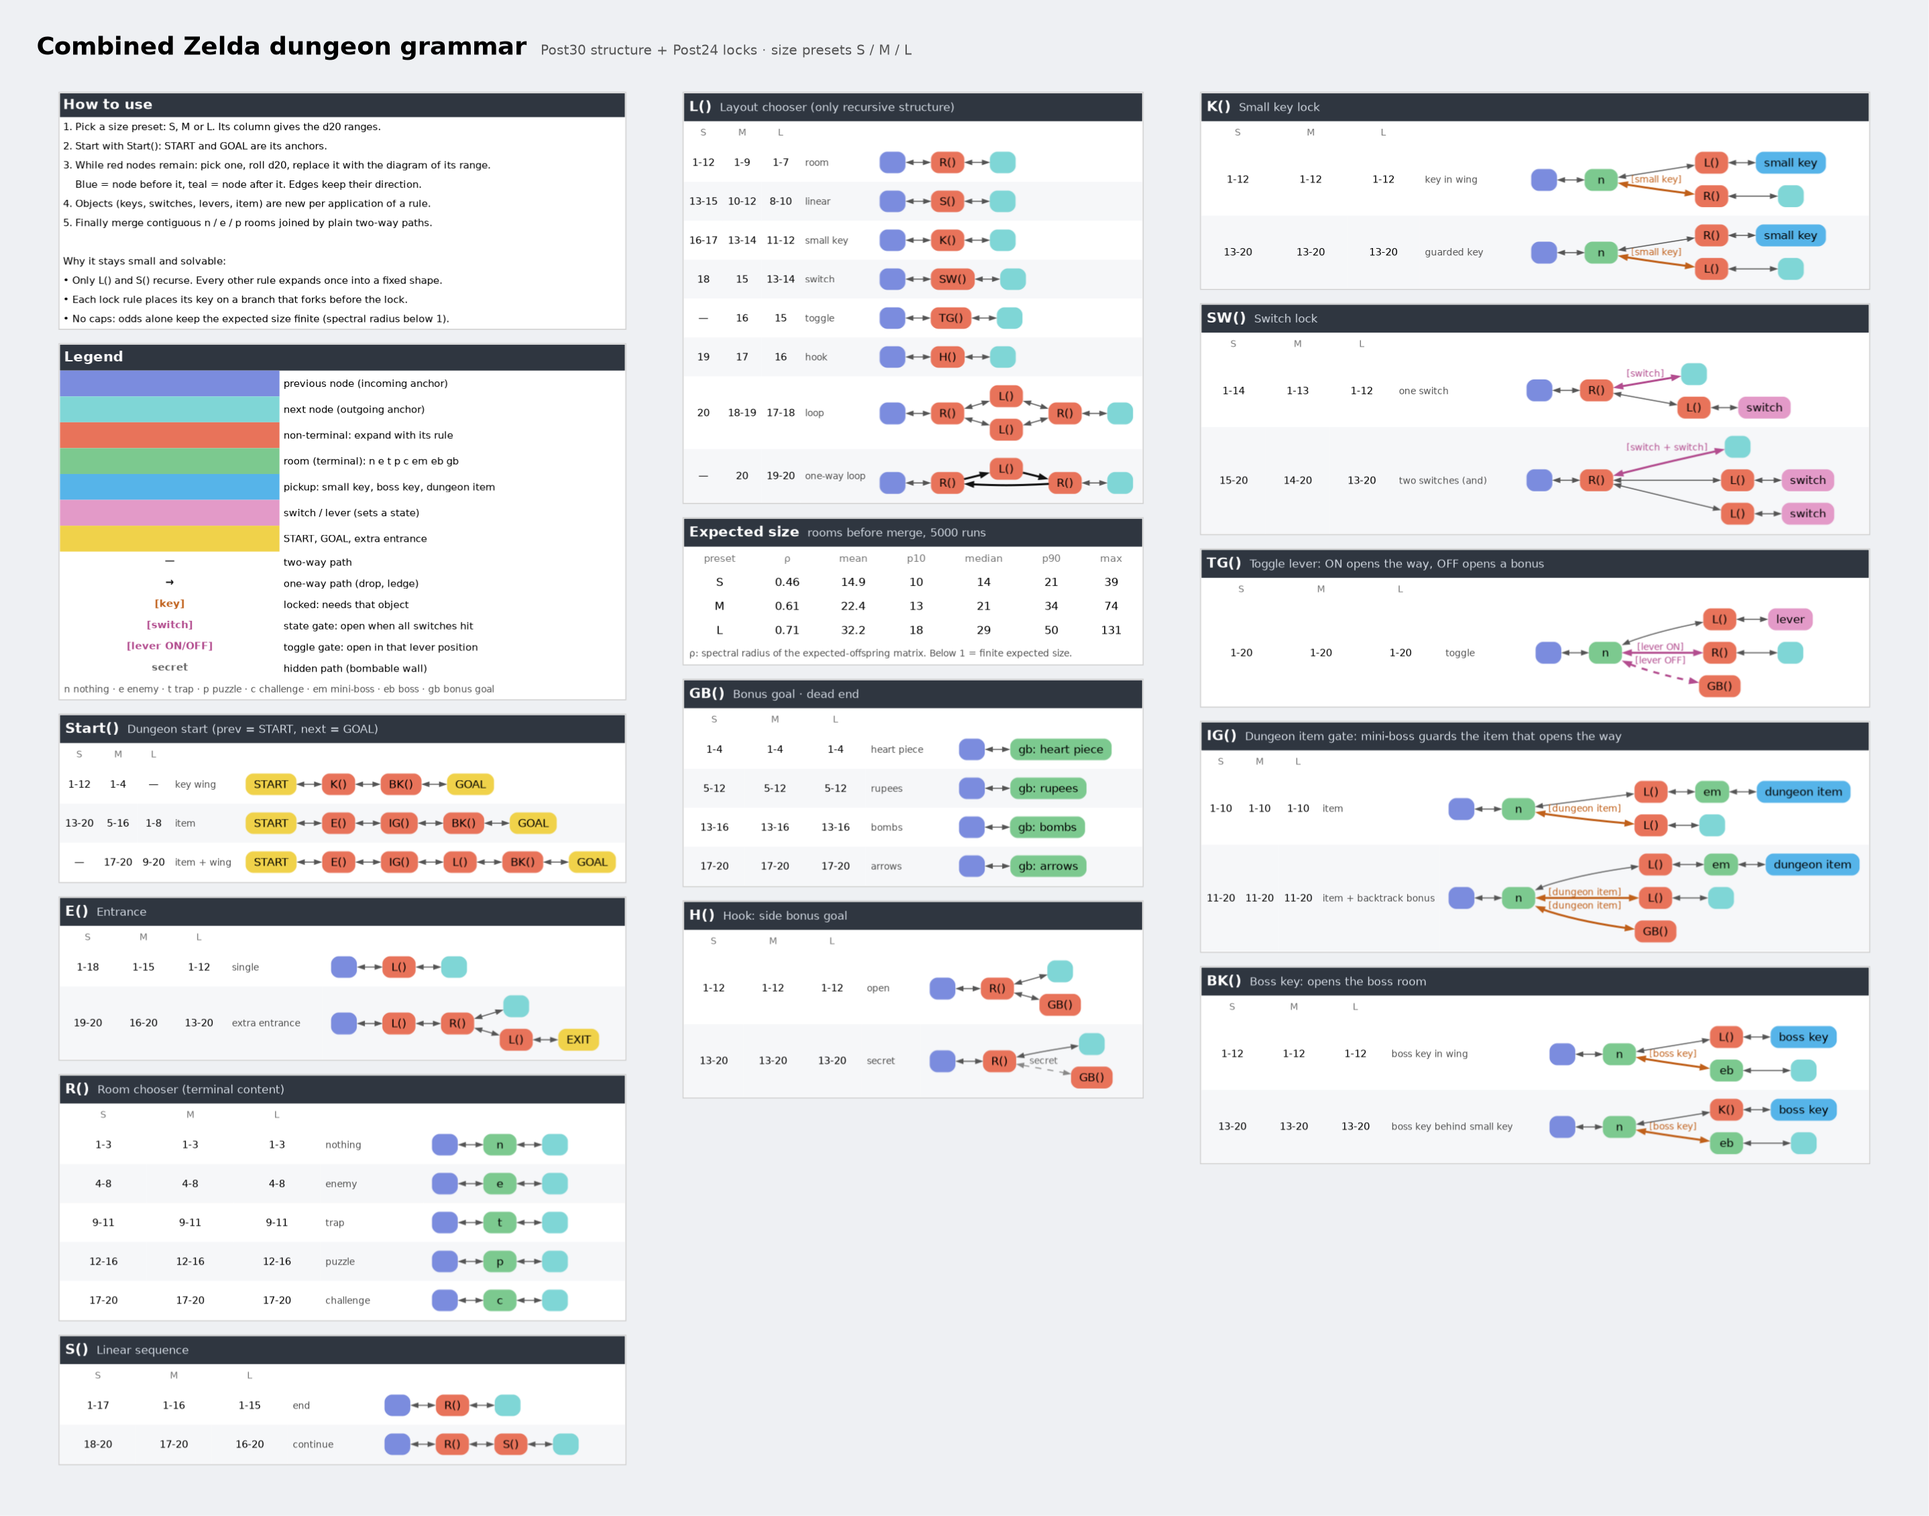
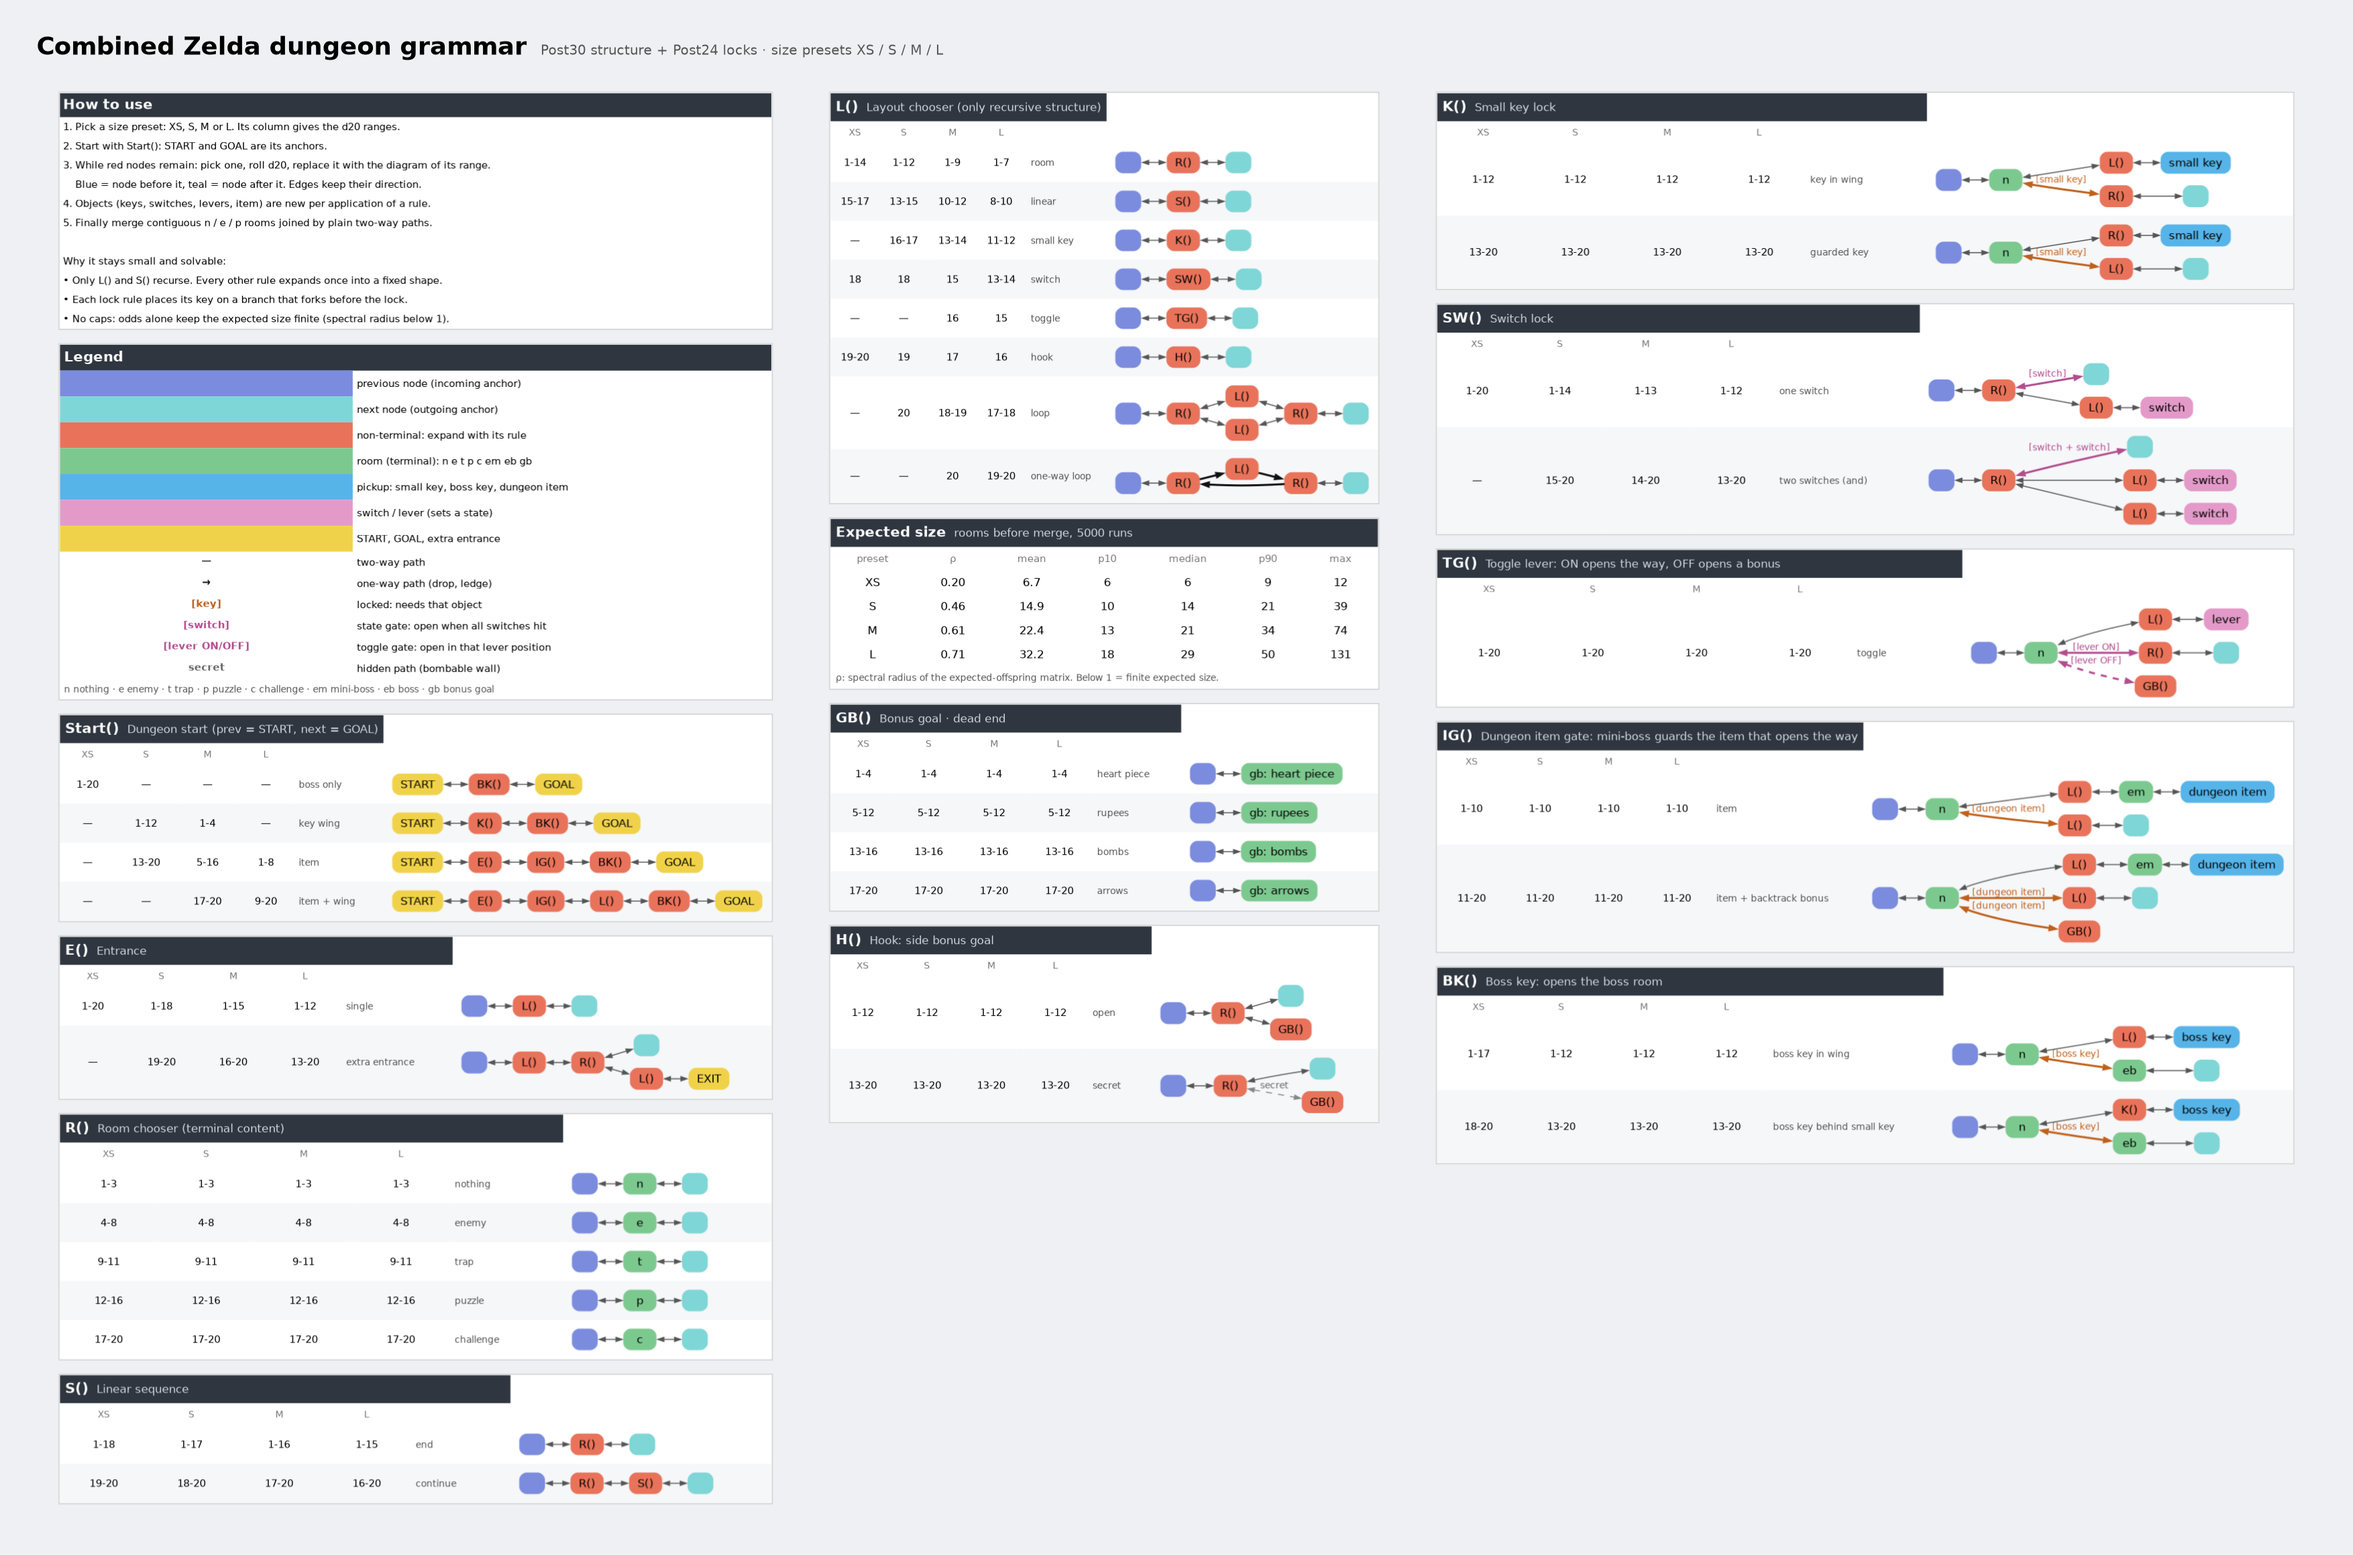
feat(grammar): add XS size preset for 5-6 room dungeons
New Start variant 'boss only' used only by XS, plus XS d20 ranges on every
rule. S, M and L ranges are unchanged, so existing seeds keep their layouts.

Changed region(s): [[0.0, 0.0, 0.9903, 0.9598], [0.1547, 0.805, 0.1857, 0.8359]]

diff --git a/grammar/combined.py b/grammar/combined.py
@@ -10,7 +10,7 @@ Design:
       toggle levers and bonus goals.
     * Only L() and S() are recursive. Every lock rule creates its key on a branch that forks
       before the lock, inside the same rule, so every dungeon is solvable. No caps needed.
-    * Size is controlled by the d20 ranges of each preset (S, M, L). Recursion is
+    * Size is controlled by the d20 ranges of each preset (XS, S, M, L). Recursion is
       subcritical (spectral radius < 1) for every preset.
 
 Data model:
@@ -53,7 +53,7 @@ class Rule(TypedDict):
     variants: list[Variant]
 
 
-PRESETS = ("S", "M", "L")
+PRESETS = ("XS", "S", "M", "L")
 
 # nt: non-terminal (expanded), room: terminal room, item: pickup of an object,
 # switch: switch or lever writing a state, special: start/goal/extra entrance
@@ -80,18 +80,19 @@ FINISH = {"L": "room", "S": "end"}
 
 
 def rng(
+    xs: Span | None = None,
     s: Span | None = None,
     m: Span | None = None,
     l: Span | None = None,  # noqa: E741
 ) -> dict[str, Span]:
     """d20 ranges per preset"""
-    ranges = {"S": s, "M": m, "L": l}
+    ranges = {"XS": xs, "S": s, "M": m, "L": l}
     return {preset: span for preset, span in ranges.items() if span}
 
 
 def always(lo: int = 1, hi: int = 20) -> dict[str, Span]:
     """Same d20 range for every preset"""
-    return rng(s=(lo, hi), m=(lo, hi), l=(lo, hi))
+    return rng(xs=(lo, hi), s=(lo, hi), m=(lo, hi), l=(lo, hi))
 
 
 def chain(*nids: str) -> list[Edge]:
@@ -134,6 +135,12 @@ GRAMMAR: dict[str, Rule] = {
         "branch": False,
         "variants": [
             variant(
+                "boss only",
+                rng(xs=(1, 20)),
+                [("bk", "nt", "BK")],
+                chain("prev", "bk", "next"),
+            ),
+            variant(
                 "key wing",
                 rng(s=(1, 12), m=(1, 4)),
                 [("k", "nt", "K"), ("bk", "nt", "BK")],
@@ -159,7 +166,7 @@ GRAMMAR: dict[str, Rule] = {
         "variants": [
             variant(
                 "single",
-                rng(s=(1, 18), m=(1, 15), l=(1, 12)),
+                rng(xs=(1, 20), s=(1, 18), m=(1, 15), l=(1, 12)),
                 [("l", "nt", "L")],
                 chain("prev", "l", "next"),
             ),
@@ -177,13 +184,13 @@ GRAMMAR: dict[str, Rule] = {
         "variants": [
             variant(
                 "room",
-                rng(s=(1, 12), m=(1, 9), l=(1, 7)),
+                rng(xs=(1, 14), s=(1, 12), m=(1, 9), l=(1, 7)),
                 [("r", "nt", "R")],
                 chain("prev", "r", "next"),
             ),
             variant(
                 "linear",
-                rng(s=(13, 15), m=(10, 12), l=(8, 10)),
+                rng(xs=(15, 17), s=(13, 15), m=(10, 12), l=(8, 10)),
                 [("s", "nt", "S")],
                 chain("prev", "s", "next"),
             ),
@@ -195,7 +202,7 @@ GRAMMAR: dict[str, Rule] = {
             ),
             variant(
                 "switch",
-                rng(s=(18, 18), m=(15, 15), l=(13, 14)),
+                rng(xs=(18, 18), s=(18, 18), m=(15, 15), l=(13, 14)),
                 [("w", "nt", "SW")],
                 chain("prev", "w", "next"),
             ),
@@ -207,7 +214,7 @@ GRAMMAR: dict[str, Rule] = {
             ),
             variant(
                 "hook",
-                rng(s=(19, 19), m=(17, 17), l=(16, 16)),
+                rng(xs=(19, 20), s=(19, 19), m=(17, 17), l=(16, 16)),
                 [("h", "nt", "H")],
                 chain("prev", "h", "next"),
             ),
@@ -244,13 +251,13 @@ GRAMMAR: dict[str, Rule] = {
         "variants": [
             variant(
                 "end",
-                rng(s=(1, 17), m=(1, 16), l=(1, 15)),
+                rng(xs=(1, 18), s=(1, 17), m=(1, 16), l=(1, 15)),
                 [("r", "nt", "R")],
                 chain("prev", "r", "next"),
             ),
             variant(
                 "continue",
-                rng(s=(18, 20), m=(17, 20), l=(16, 20)),
+                rng(xs=(19, 20), s=(18, 20), m=(17, 20), l=(16, 20)),
                 [("r", "nt", "R"), ("s", "nt", "S")],
                 chain("prev", "r", "s", "next"),
             ),
@@ -311,7 +318,7 @@ GRAMMAR: dict[str, Rule] = {
         "variants": [
             variant(
                 "one switch",
-                rng(s=(1, 14), m=(1, 13), l=(1, 12)),
+                rng(xs=(1, 20), s=(1, 14), m=(1, 13), l=(1, 12)),
                 [("h", "nt", "R"), ("l", "nt", "L"), ("sw", "switch", "s1")],
                 chain("prev", "h") + chain("h", "l", "sw") + [("h", "next", "state", "s1")],
                 objects={"s1": ("switch", "switch")},
@@ -401,7 +408,7 @@ GRAMMAR: dict[str, Rule] = {
         "variants": [
             variant(
                 "boss key in wing",
-                always(1, 12),
+                rng(xs=(1, 17), s=(1, 12), m=(1, 12), l=(1, 12)),
                 [("h", "room", "n"), ("l", "nt", "L"), ("bkey", "item", "b"), ("eb", "room", "eb")],
                 chain("prev", "h")
                 + chain("h", "l", "bkey")
@@ -411,7 +418,7 @@ GRAMMAR: dict[str, Rule] = {
             ),
             variant(
                 "boss key behind small key",
-                always(13, 20),
+                rng(xs=(18, 20), s=(13, 20), m=(13, 20), l=(13, 20)),
                 [("h", "room", "n"), ("k", "nt", "K"), ("bkey", "item", "b"), ("eb", "room", "eb")],
                 chain("prev", "h")
                 + chain("h", "k", "bkey")

diff --git a/grammar/render.py b/grammar/render.py
@@ -158,7 +158,7 @@ def legend_card() -> str:
 def instructions_card() -> str:
     """Card with the instructions to use the grammar by hand"""
     text = (
-        "1. Pick a size preset: S, M or L. Its column gives the d20 ranges.",
+        "1. Pick a size preset: XS, S, M or L. Its column gives the d20 ranges.",
         "2. Start with Start(): START and GOAL are its anchors.",
         "3. While red nodes remain: pick one, roll d20, replace it with the diagram of its range.",
         "    Blue = node before it, teal = node after it. Edges keep their direction.",
@@ -226,7 +226,9 @@ def render(output: str | Path, runs: int) -> None:
         title = (
             '<TR><TD COLSPAN="3" ALIGN="LEFT">'
             '<FONT POINT-SIZE="24"><B>Combined Zelda dungeon grammar</B></FONT>'
-            + font("   Post30 structure + Post24 locks · size presets S / M / L", 13, "#555555")
+            + font(
+                "   Post30 structure + Post24 locks · size presets XS / S / M / L", 13, "#555555"
+            )
             + "</TD></TR>"
         )
         # Each column is rendered on its own so cards keep their natural height

diff --git a/tests/test_combined.py b/tests/test_combined.py
@@ -155,3 +155,10 @@ def test_seed_zero_is_a_seed() -> None:
 
     assert dungeon._seed == 0
     assert dungeon._rolls == [rand.randint(1, 20) for _ in dungeon._rolls]
+
+
+def test_xs_dungeons_are_small() -> None:
+    rooms = sorted(simulate("XS", seed)[0] for seed in SEEDS)
+
+    assert rooms[0] == 6
+    assert rooms[len(rooms) // 2] <= 8

diff --git a/dungeon_generator_cli.py b/dungeon_generator_cli.py
@@ -53,7 +53,7 @@ if __name__ == "__main__":
         "--size",
         default="M",
         type=str.upper,
-        choices=["S", "M", "L"],
+        choices=["XS", "S", "M", "L"],
         help="Size preset for the Combined Grammar (case insensitive)",
     )
     parser.add_argument(

diff --git a/README.md b/README.md
@@ -24,7 +24,7 @@ $ uv run python dungeon_generator_cli.py
 
 ```bash
 usage: dungeon_generator_cli.py [-h] [--combined | --post24 | --post30]
-                                [--size {S,M,L}] [--theme {cyber,tor-barrow,tor-dwarf,zelda}]
+                                [--size {XS,S,M,L}] [--theme {cyber,tor-barrow,tor-dwarf,zelda}]
                                 [--seed SEED] [--maxnodes MAXNODES]
                                 [--maxiter MAXITER] [--show-graph]
                                 [--output OUTPUT] [--json JSON] [--key KEY]
@@ -38,7 +38,7 @@ options:
                         may be unsolvable)
   --post30              Generate a Dungeon using the Post30 Grammar (legacy,
                         may be unsolvable)
-  --size {S,M,L}        Size preset for the Combined Grammar (case
+  --size {XS,S,M,L}     Size preset for the Combined Grammar (case
                         insensitive)
   --theme {cyber,tor-barrow,tor-dwarf,zelda}
                         Room labels, object names and rewards for the Combined
@@ -265,6 +265,7 @@ not merged, so one-way paths are kept.
 
 | Preset | p10 | median | p90 |
 |--------|-----|--------|-----|
+| XS     | 6   | 6      | 9   |
 | S      | 10  | 14     | 20  |
 | M      | 13  | 20     | 34  |
 | L      | 18  | 30     | 51  |
